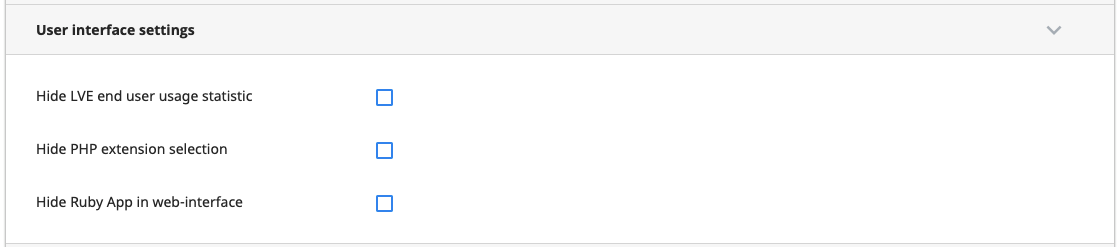
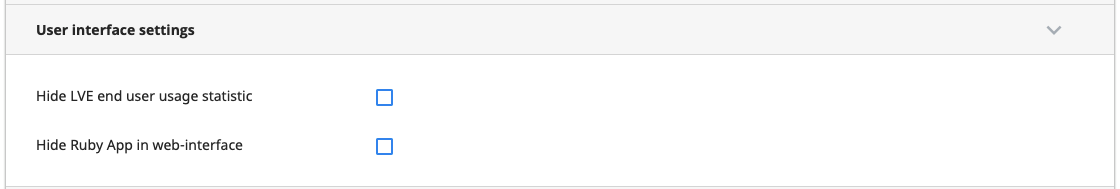
PT-1363
The "Hide php extensions for end-user" option is moved from the "Options" tab to the "Selector" tab.

diff --git a/docs/lve_manager/README.md b/docs/lve_manager/README.md
@@ -439,7 +439,6 @@ Starting from LVE Manager 5.3.7-1 this option is available in cPanel, Plesk, and
 Allows to manage user interface settings:
 
 * **<span class="notranslate">Hide LVE end user usage statistic</span>** - a user will not be able to see his usage statistic in his web interface
-* **<span class="notranslate">Hide PHP extension selection</span>** - a user will not be able to select PHP extensions in his web interface
 * **<span class="notranslate">Hide Ruby App in web-interface</span>** - a user will not be able to see Ruby Selector in his web interface
 
 #### CageFS
@@ -513,11 +512,13 @@ When limits are set click <span class="notranslate">_Save_</span> to apply chang
 
 <span class="notranslate"> Selector</span> tab allows controlling <span class="notranslate">PHP Selector</span> settings.
 
-In <span class="notranslate">_Selector is_</span> section choose <span class="notranslate">`Enabled`</span> or <span class="notranslate">`Disabled`</span> from the dropdown list to enable or disable <span class="notranslate">PHP Selector</span>.
-
-In <span class="notranslate">_Default PHP version_</span> choose a proper PHP version or <span class="notranslate"> Native</span> from dropdown list to apply.
-
-In <span class="notranslate">_Supported versions_</span> choose required PHP versions to support.
+* In <span class="notranslate">_Selector is_</span> section choose <span class="notranslate">`Enabled`</span> or <span class="notranslate">`Disabled`</span> from the dropdown list to enable or disable <span class="notranslate">PHP Selector</span>.
+* In <span class="notranslate">_Default PHP version_</span> choose a proper PHP version or <span class="notranslate"> Native</span> from dropdown list to apply.
+* In <span class="notranslate">_Hide php extensions for end-user_</span> you can enable/disable the ability for end-user to select PHP extensions in his web interface.
+:::tip Note
+Starting from LVE Manager 5.3.7-1 this option is available in cPanel, Plesk, and DirectAdmin.
+:::
+* In <span class="notranslate">_Supported versions_</span> choose required PHP versions to support.
 
 Choose default modules from the list for a proper PHP version or for native.
 
